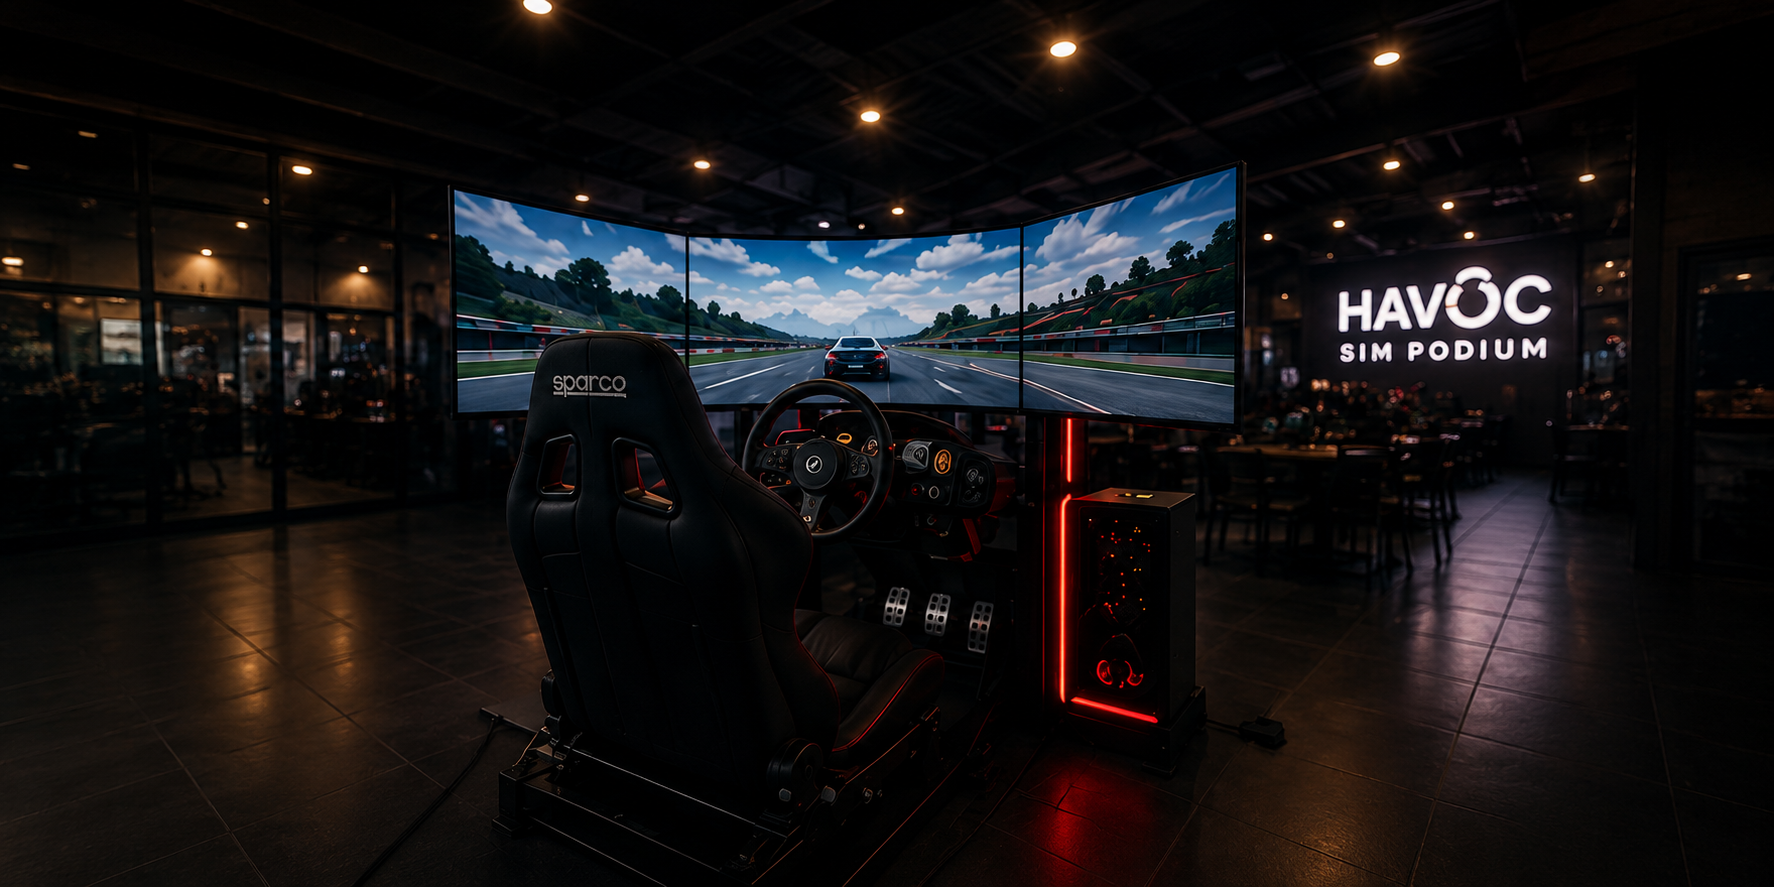
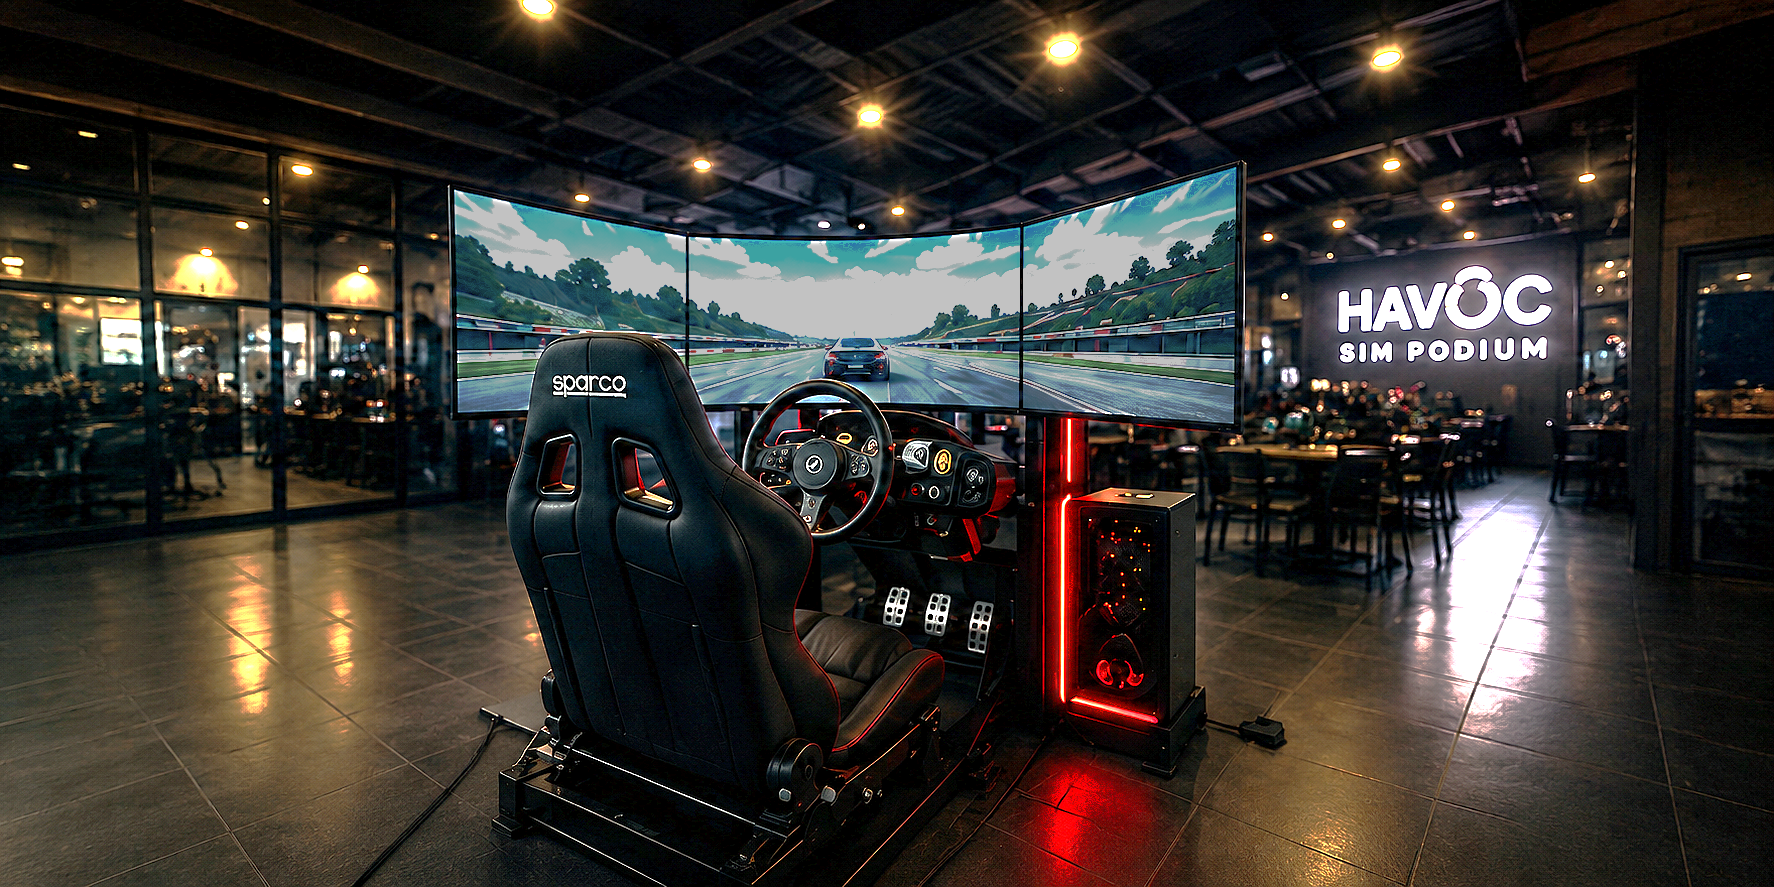
Removed happy racers and softened dark theme

diff --git a/index.html b/index.html
@@ -57,16 +57,7 @@
                     <a href="#simulators" class="btn btn-secondary">EXPLORE SIMULATORS</a>
                 </div>
                     
-                    <div class="hero-social-proof">
-                        <div class="avatars">
-                            <div class="avatar"></div>
-                            <div class="avatar"></div>
-                            <div class="avatar"></div>
-                        </div>
-                        <div class="rating-text">
-                            <strong>4.9</strong> <span class="stars">★★★★★</span> 500+ Happy Racers
-                        </div>
-                    </div>
+
                 </div>
 
 

diff --git a/admin-dashboard.html b/admin-dashboard.html
@@ -11,10 +11,10 @@
         :root {
             --gold: #e5b869;
             --gold-glow: rgba(229,184,105,0.2);
-            --bg: #0a0a0c;
-            --sidebar-bg: #0e0e11;
-            --card: #111114;
-            --card2: #141418;
+            --bg: #1c1d26;
+            --sidebar-bg: #232530;
+            --card: #2f3242;
+            --card2: #383b4d;
             --border: rgba(255,255,255,0.07);
             --muted: rgba(255,255,255,0.45);
             --input-bg: #1a1a1f;

diff --git a/style.css b/style.css
@@ -1,6 +1,6 @@
 :root {
-    --bg-dark: #18181e;
-    --bg-card: #222228;
+    --bg-dark: #232530;
+    --bg-card: #2f3242;
     --bg-light: #f5f3ef;
     
     --text-primary: #ffffff;
